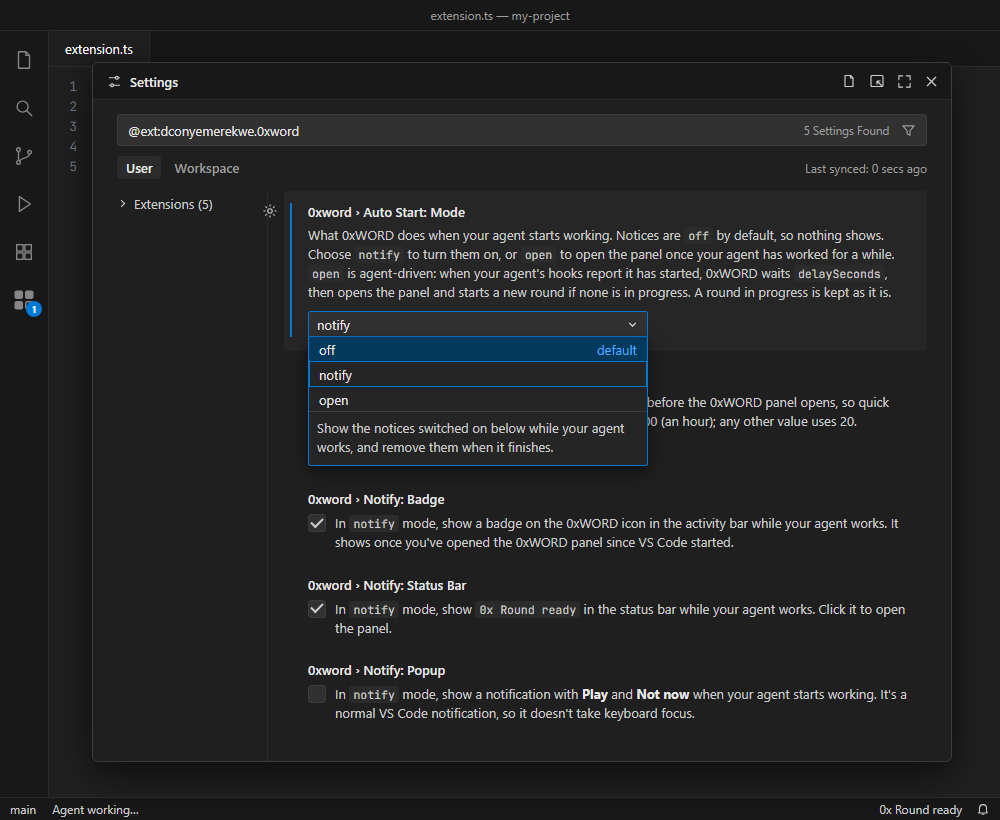
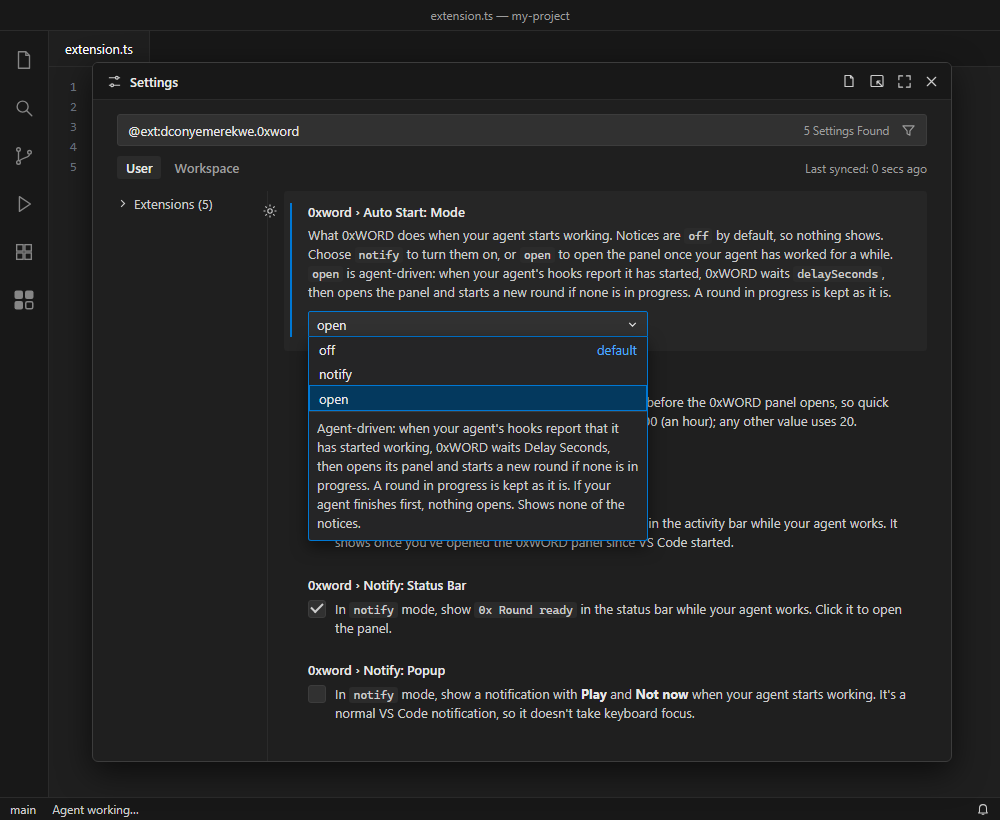
docs(agent): show open mode in the settings screenshot (#113)
The owner's updated screenshot shows Auto Start: Mode set to open, with
open's own description, and no notices, as open mode shows none. The alt
text now describes that.

diff --git a/README.md b/README.md
@@ -79,7 +79,7 @@ You can play without a mouse:
 
 0xWORD can show a "Round ready" notice when you send a prompt to your AI agent, and clear it when the agent finishes. In `notify` mode you choose the notices: a badge on the 0xWORD icon, `0x Round ready` in the status bar, or a pop-up. `open` mode is agent-driven: it opens the panel once your agent has worked for a while, and keeps a round in progress as it is. If the agent finishes mid-round, the panel says so and your round stays.
 
-![VS Code's Settings filtered to 0xWORD, with Auto Start: Mode being set to notify. The 0xWORD icon has a badge, and the status bar shows 0x Round ready.](docs/screenshots/notice-settings.png)
+![VS Code's Settings filtered to 0xWORD's five settings, with Auto Start: Mode set to open from a list of off, notify and open, and the open choice's description showing.](docs/screenshots/notice-settings.png)
 
 It works through hooks you add to your agent tool. For Claude Code, add this to `~/.claude/settings.json`. If the file already exists, don't paste in a second object: put the two entries inside its `hooks` object, or add a `hooks` key if it has none. If `UserPromptSubmit` or `Stop` is already listed, add the inner `{ "hooks": [ … ] }` entry to that list instead of a second key.
 

diff --git a/docs/agent-integration.md b/docs/agent-integration.md
@@ -33,7 +33,7 @@ the agent finishes ──► the tool's hook runs ──► code --open-url "vsc
 
 Find these under **Settings → Extensions → 0xWORD**. VS Code saves them for you, so a choice lasts until you change it, across rounds, restarts and updates. You can also set them per workspace, for example off in one project and on in another.
 
-![VS Code's Settings filtered to 0xWORD's five settings, with Auto Start: Mode being set to notify from a list of off, notify and open. The 0xWORD icon in the activity bar has a badge, and the status bar shows 0x Round ready.](screenshots/notice-settings.png)
+![VS Code's Settings filtered to 0xWORD's five settings, with Auto Start: Mode set to open from a list of off, notify and open, and the open choice's description showing.](screenshots/notice-settings.png)
 
 | Setting | Values | Default | What it does |
 |---|---|---|---|
